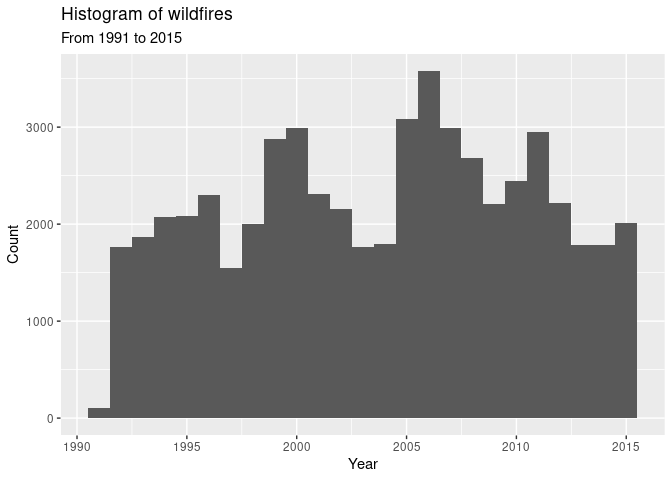
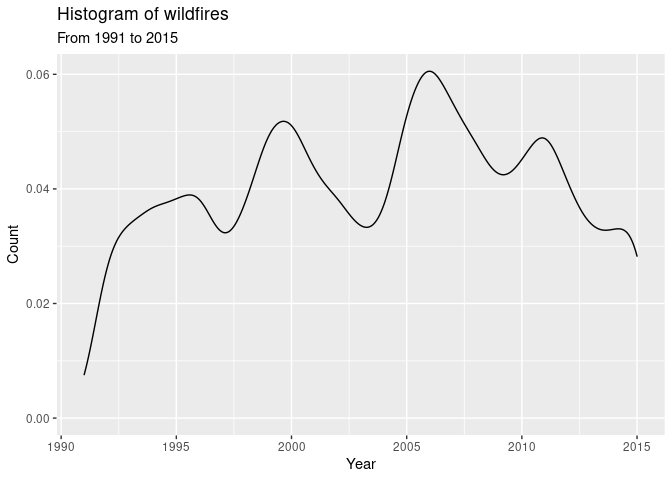
Update wildfires plot

diff --git a/proposal/proposal.md b/proposal/proposal.md
@@ -11,6 +11,8 @@ library(RColorBrewer) ## For colour palettes
 library(htmltools) ## For html
 library(leafsync) ## For placing plots side by side
 library(kableExtra) ## Table output
+library(tidymodels) # modelling
+library(readr)
 ```
 
 ## 1. Introduction
@@ -207,14 +209,15 @@ probability.
 ``` r
 ggplot(data = wildfires,
        mapping = aes(x = disc_pre_year)) + 
-  geom_histogram(binwidth = 1) + 
+  #geom_histogram(binwidth = 1) + 
+  geom_density() +
   labs(title = "Histogram of wildfires",
        subtitle = "From 1991 to 2015",
        x = "Year",
        y = "Count")
 ```
 
-    ## Warning: Removed 8 rows containing non-finite values (stat_bin).
+    ## Warning: Removed 8 rows containing non-finite values (stat_density).
 
 ![](proposal_files/figure-gfm/histogram-of-wildfires-1.png)<!-- -->
 
